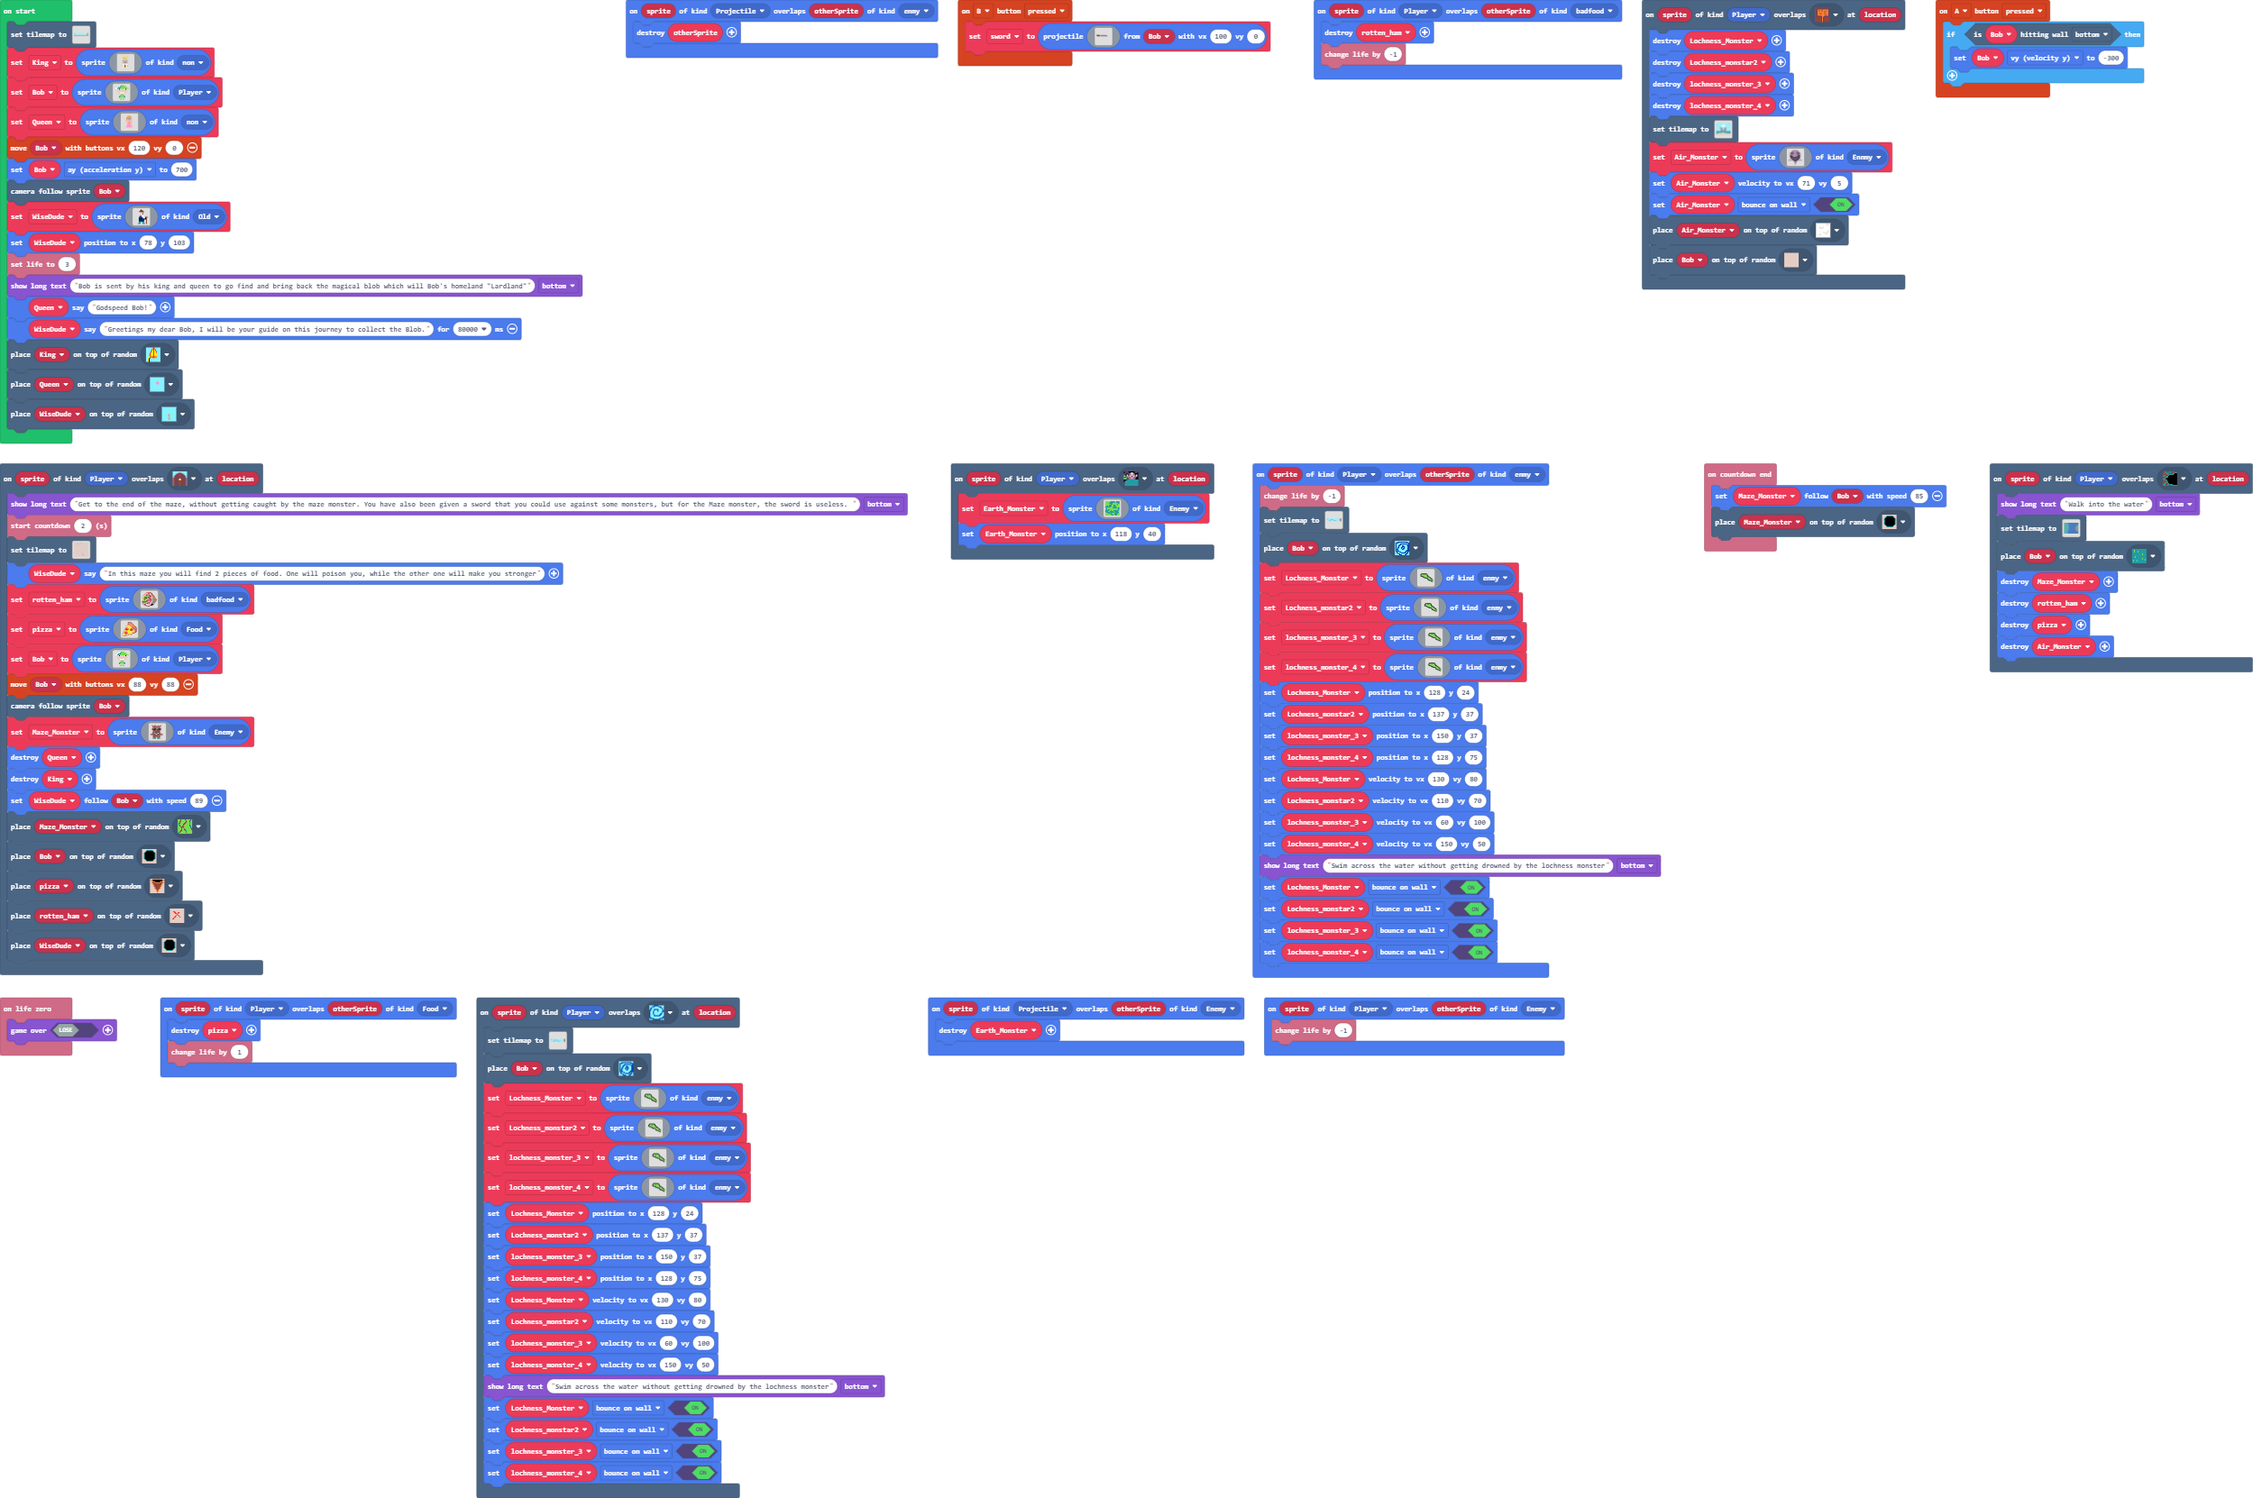
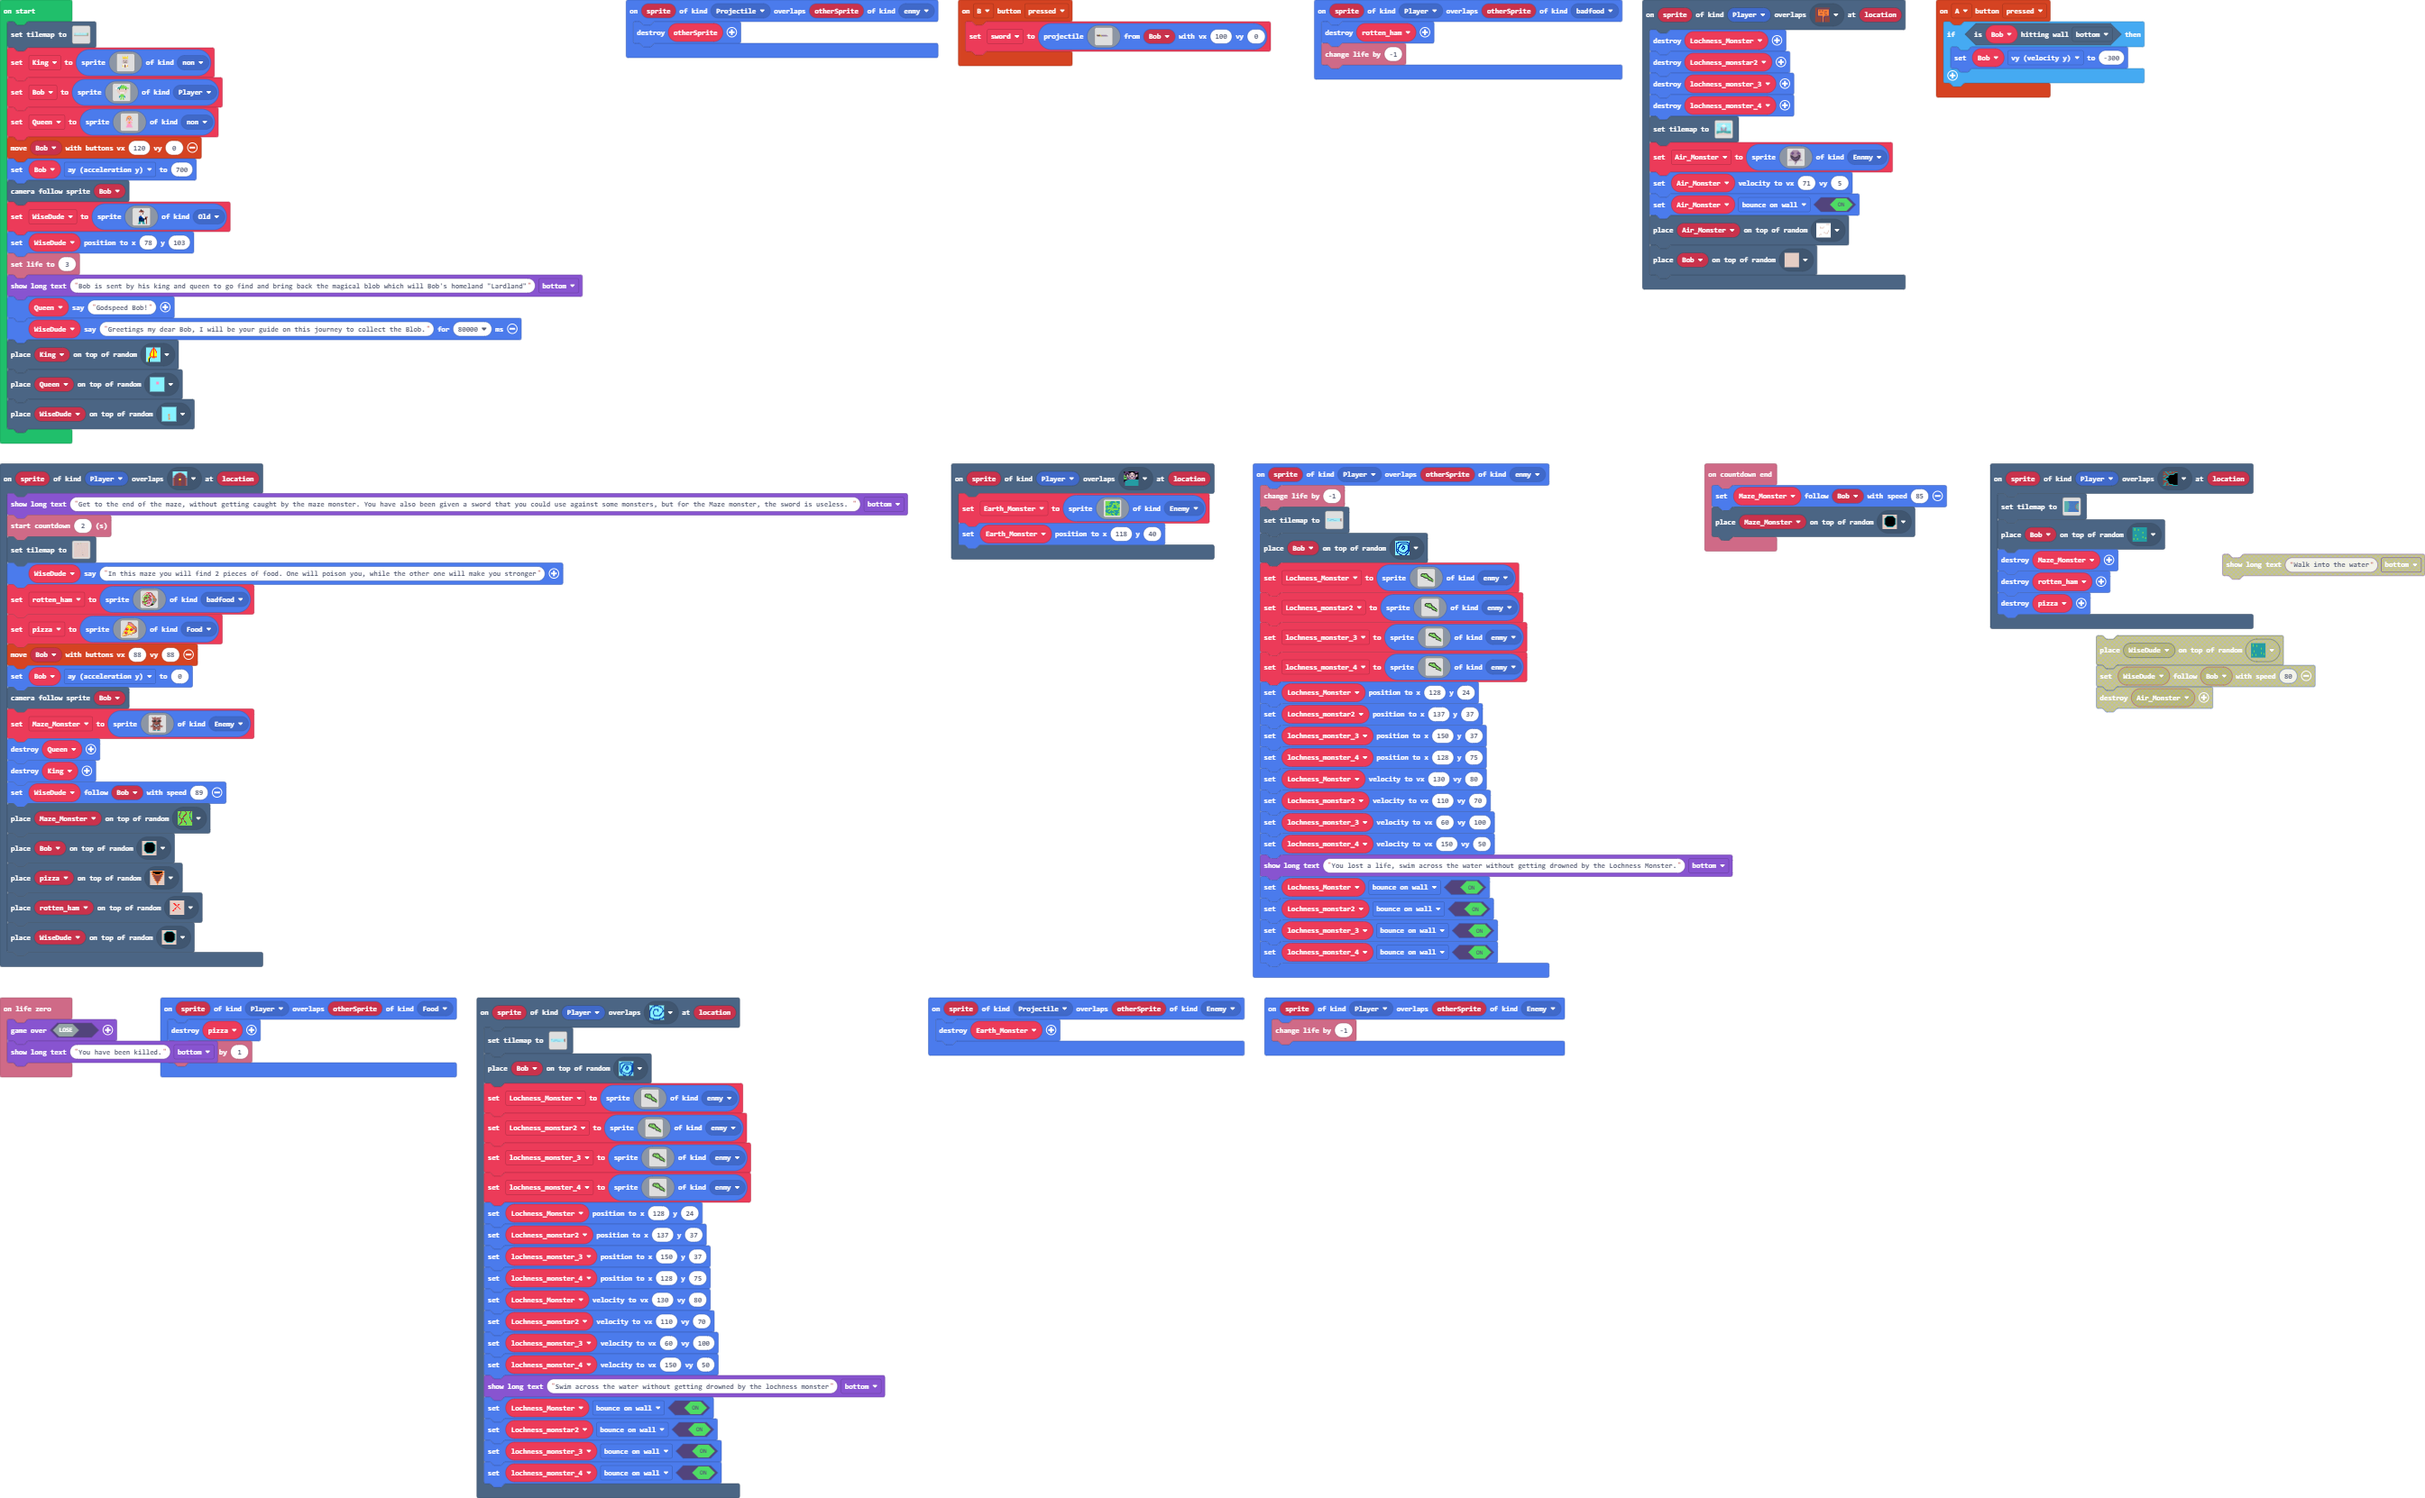
Update main.blocks, main.ts

diff --git a/main.ts b/main.ts
@@ -200,25 +200,8 @@ scene.onOverlapTile(SpriteKind.Player, myTiles.tile8, function (sprite, location
         41554eede.......................
         44ee...4e.......................
         `, SpriteKind.Food)
-    Bob = sprites.create(img`
-        . . . . . . 1 6 7 7 7 . . . . . 
-        . . . . 1 1 6 7 7 7 7 7 7 . . . 
-        . . . 1 6 6 6 7 7 7 7 7 7 7 . . 
-        . 1 1 6 6 7 7 7 7 7 7 7 7 7 7 7 
-        . . . d 1 f d d d d d 1 f d . . 
-        . . d d d d d d d d d d d d d . 
-        . . . d d d d d d d d d d d . . 
-        . . . d d d d d d d d d d d . . 
-        . . . . d d 1 1 1 1 1 d d . . . 
-        . . . . . d d d d d d d . . . . 
-        . . . . . . . 7 7 7 . . . . . . 
-        . . . . . . 7 7 7 7 7 . . . . . 
-        . . . . . 6 6 7 7 7 6 6 . . . . 
-        . . . . . 6 . 7 . 7 . 6 . . . . 
-        . . . . . . . 7 . 7 . . . . . . 
-        . . . . . . 7 7 . 7 7 . . . . . 
-        `, SpriteKind.Player)
     controller.moveSprite(Bob, 88, 88)
+    Bob.ay = 0
     scene.cameraFollowSprite(Bob)
     Maze_Monster = sprites.create(img`
         .....dd.......d.....d.........
@@ -377,7 +360,7 @@ sprites.onOverlap(SpriteKind.Player, SpriteKind.enmy, function (sprite, otherSpr
     Lochness_monstar2.setVelocity(110, 70)
     lochness_monster_3.setVelocity(60, 100)
     lochness_monster_4.setVelocity(150, 50)
-    game.showLongText("Swim across the water without getting drowned by the lochness monster", DialogLayout.Bottom)
+    game.showLongText("You lost a life, swim across the water without getting drowned by the Lochness Monster.", DialogLayout.Bottom)
     Lochness_Monster.setFlag(SpriteFlag.BounceOnWall, true)
     Lochness_monstar2.setFlag(SpriteFlag.BounceOnWall, true)
     lochness_monster_3.setFlag(SpriteFlag.BounceOnWall, true)
@@ -388,7 +371,6 @@ info.onCountdownEnd(function () {
     tiles.placeOnRandomTile(Maze_Monster, myTiles.tile18)
 })
 scene.onOverlapTile(SpriteKind.Player, myTiles.tile17, function (sprite, location) {
-    game.showLongText("Walk into the water", DialogLayout.Bottom)
[1 lines of base64/hex data omitted]
         ..........2.............................
         ..........222...........................
@@ -425,10 +407,10 @@ scene.onOverlapTile(SpriteKind.Player, myTiles.tile17, function (sprite, locatio
     Maze_Monster.destroy()
     rotten_ham.destroy()
     pizza.destroy()
-    Air_Monster.destroy()
 })
 info.onLifeZero(function () {
     game.over(false)
+    game.showLongText("You have been killed.", DialogLayout.Bottom)
 })
 sprites.onOverlap(SpriteKind.Player, SpriteKind.Food, function (sprite, otherSprite) {
     pizza.destroy()
